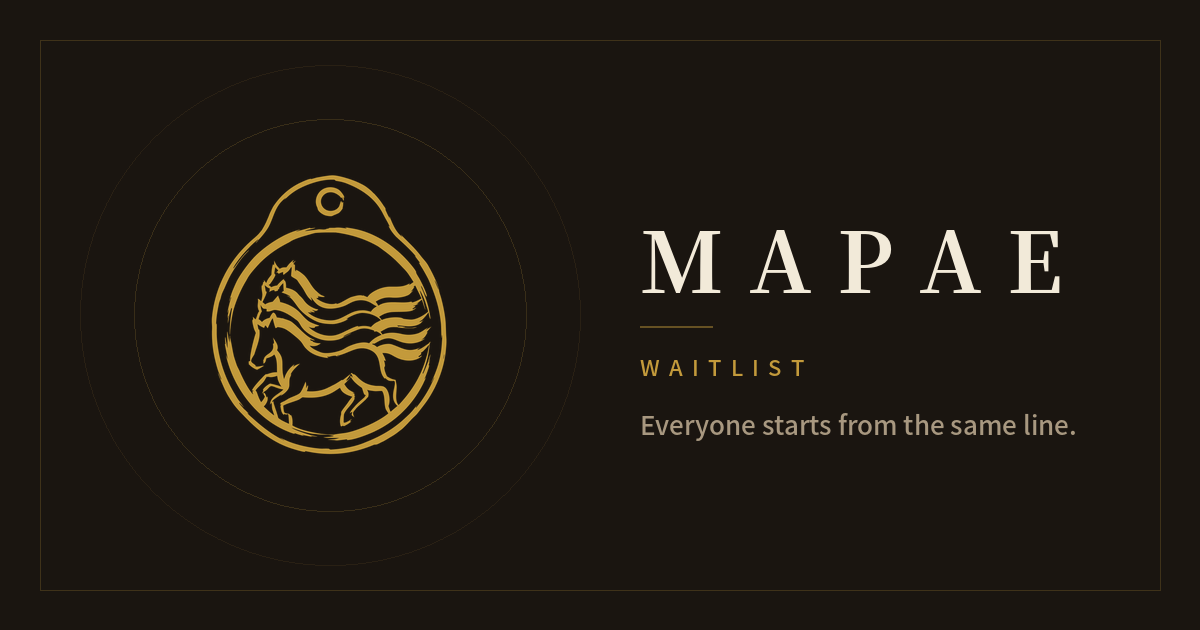
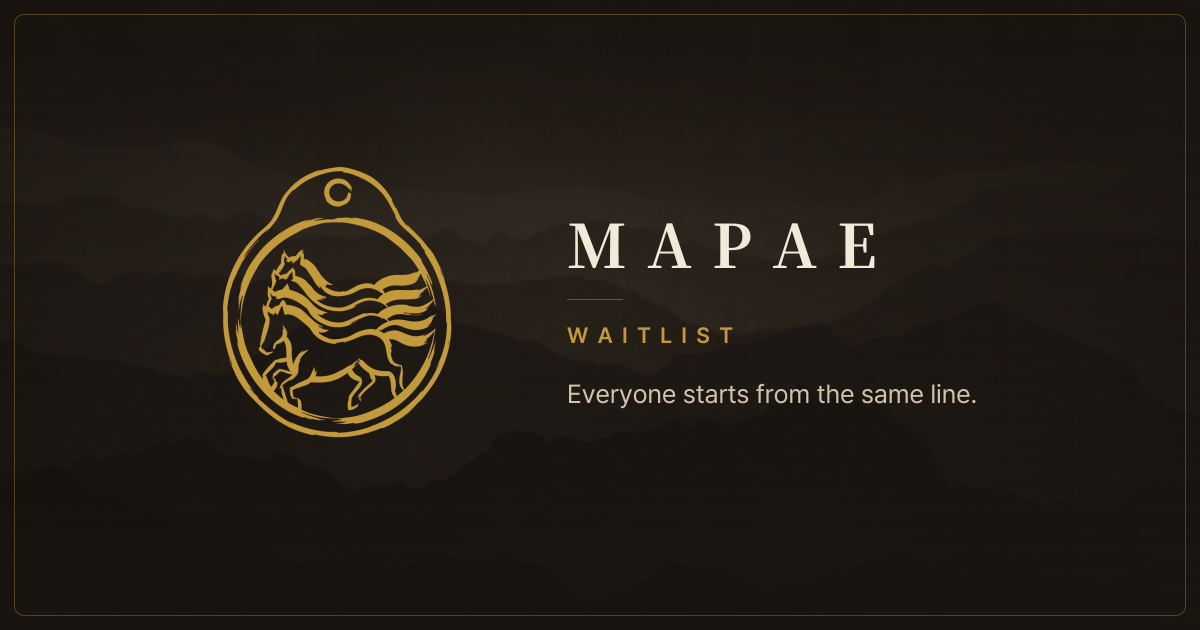
W-T71: privacy back link, new waitlist preview image, drop referralHint
- /privacy: a "Back to waitlist" link (react-router Link to /waitlist)
  above the title, in the normal body only. New copy key privacy.back.
- web/public/og-waitlist.png: the new 1200x630 preview (511,092 bytes),
  committed as given.
- waitlist.referralHint is no longer used since W-T69; removed from the
  ko and en copy.

Claude-Session: https://claude.ai/code/session_01BooZHEBPrPbYoLexFo7gUA

diff --git a/web/src/pages/Privacy.tsx b/web/src/pages/Privacy.tsx
@@ -1,6 +1,7 @@
 // /privacy (W-T43): the waitlist privacy notice. Shown only while the email field is on (the API's
 // `contact` is set); otherwise a "not found" note with a link back to /waitlist (W-T45: never into
 // the app). Rendered in WaitlistShell. Text as written in the copy files.
+import {Link} from "react-router-dom";
 import {useCopy} from "../copy";
 import {SecondaryBtn, Skeleton} from "../components/ui";
 import {useWaitlist} from "../hooks/waitlist";
@@ -27,6 +28,11 @@ export default function Privacy() {
     if (!q.data.contact) return <WaitlistNote title={tr.route404.title} note={tr.route404.note} toWaitlist />;
     return shell(
         <>
+            {/* W-T71: the way back to the waitlist (the body only, not the loading or error states) */}
+            <Link to="/waitlist" className="inline-flex items-center gap-1.5 min-h-[44px] mb-6 text-[13px] text-hanji-400 hover:text-brass-400">
+                <span aria-hidden="true">←</span>
+                {p.back}
+            </Link>
             <h1 className="m-0 mb-6 text-[24px] font-bold">{p.title}</h1>
             <div className="space-y-4 text-[14px] leading-relaxed text-hanji-100">
                 {[p.what, p.why, p.share, p.keep, p.rights].map((x) => <p key={x} className="m-0">{x}</p>)}

diff --git a/web/src/copy/ko.ts b/web/src/copy/ko.ts
@@ -1166,7 +1166,6 @@ export const ko = {
         cta: "X로 줄 서기",
         position: (n: string) => `${n}번째로 줄 섰어요`,
         referrals: (k: number) => `내 링크로 줄 선 사람 ${k}명`,
-        referralHint: "내 링크로 한 명이 줄 설 때마다 순번이 올라가요",
         copyLink: "링크 복사",
         shareX: "X에 공유",
         /** W-T49: one English post whatever the screen language */
@@ -1219,6 +1218,8 @@ export const ko = {
     },
     privacy: {
         title: "개인정보 처리방침 (웨이트리스트)",
+        /** W-T71 */
+        back: "웨이트리스트로 돌아가기",
         what: "저장하는 정보: X 아이디와 계정 번호, X 계정 생성일, 팔로워 수, 추천한 계정, 팔로우, 리포스트 버튼을 누른 기록. 직접 입력한 경우에 한해 지갑 주소와 이메일 주소",
         why: "쓰는 목적: 순번을 매기고, 부정 가입을 걸러 내고, 메인넷 오픈을 알리는 데만 써요",
         share: "제공: 다른 곳에 팔거나 넘기지 않아요. 저장과 운영에는 클라우드 서비스(Vercel, Neon)를 써요",

diff --git a/web/src/copy/en.ts b/web/src/copy/en.ts
@@ -1118,7 +1118,6 @@ export const en = {
         cta: "Join with X",
         position: (n: string) => `You're #${n} in line`,
         referrals: (k: number) => `${k} joined through your link`,
-        referralHint: "You move up each time someone joins through your link.",
         copyLink: "Copy link",
         shareX: "Share on X",
         /** W-T49: one English post whatever the screen language */
@@ -1169,6 +1168,8 @@ export const en = {
     },
     privacy: {
         title: "Privacy notice (waitlist)",
+        /** W-T71 */
+        back: "Back to waitlist",
         what: "What we store: your X handle and account ID, the account's creation date, follower count, who referred you, and whether you pressed the follow and repost buttons. A wallet address and an email address only if you add them.",
         why: "Why: to keep the order of the line, to filter fake signups, and to tell you when mainnet opens. Nothing else.",
         share: "Sharing: we do not sell or pass this on. It is stored and served on cloud providers (Vercel, Neon).",

diff --git a/web/src/copy/waitlist.test.ts b/web/src/copy/waitlist.test.ts
@@ -36,6 +36,9 @@ describe("waitlist copy (W-T43)", () => {
         expect(en.waitlist.shareText).toBe(ko.waitlist.shareText);
         expect(ko.waitlist.shareText).not.toMatch(/[\u3131-\u318E\uAC00-\uD7A3]/);
         expect(ko.privacy.contact("a@b.co")).toBe("문의: a@b.co");
+        // W-T71
+        expect(ko.privacy.back).toBe("웨이트리스트로 돌아가기");
+        expect(en.privacy.back).toBe("Back to waitlist");
         expect(en.privacy.contact("a@b.co")).toBe("Contact: a@b.co");
     });
     // W-T70: "포인트" / "points" are allowed in the waitlist and privacy copy (the joined screen shows
